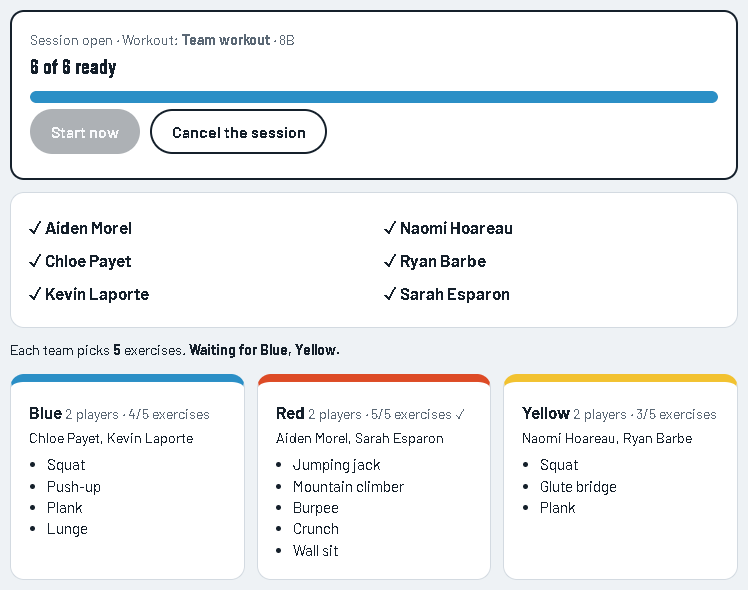
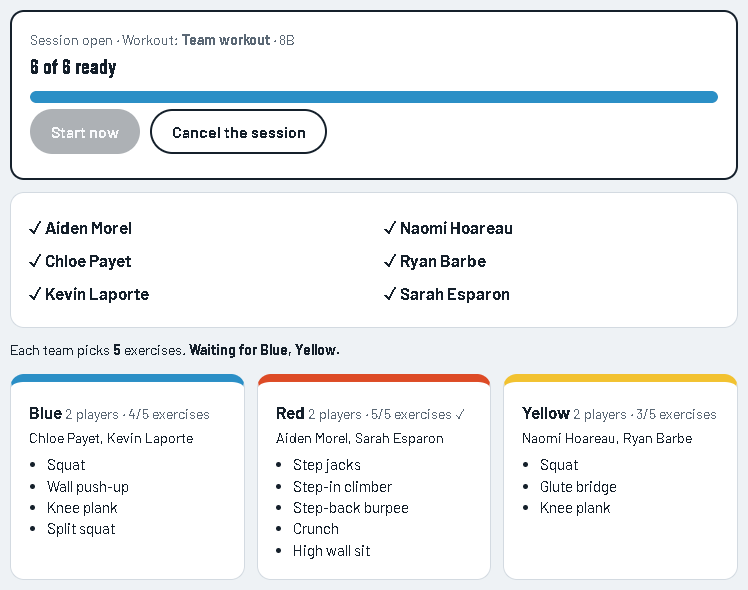
Team build: the team picks one level of each movement

diff --git a/index.html b/index.html
@@ -1934,7 +1934,7 @@ const TUTORIAL = [
   ['Write your last score', 'The last exercise has no rest, so you get <b>20 seconds</b> right after it to write its score. Do it straight away while you remember.', 'last'],
   ['Heart rate check', 'After the last exercise the screen turns red. Stop and put two fingers (not your thumb) on your wrist, below the thumb, or on the side of your neck. When the 30-second clock starts, count every beat until it reaches 0, and remember your number. In a live challenge, wait with your fingers on your pulse: your teacher starts the count for everyone.', 'pulse'],
   ['Pick your team', 'If your teacher turns on teams, tapping a team (Blue, Red, Yellow, Green…) makes you ready. First come, first served, but teams stay balanced: a team that already has more players than another is closed. With 40 students and 4 teams you get 10 per team. Your team colour shows during the workout and on the leaderboard.', 'teams'],
-  ['Pick your team’s exercises', 'In a "build your workout" session, once you are in a team the app opens the exercise menu for your team: you and your teammates choose the exercises together (the number is set by your teacher). Tap a movement to add it, tap it again to remove it. If you leave, the notice on your home page says <b>Set the exercises</b>. You each do them at your own level. When the team is full, wait: the teacher starts everyone together.', 'teampick'],
+  ['Pick your team’s exercises', 'In a "build your workout" session, once you are in a team the app opens the exercise menu for your team: you and your teammates choose the exercises together (the number is set by your teacher). Tap one level of a movement to add it (tap it again to remove it, tap another level to swap). If you leave, the notice on your home page says <b>Set the exercises</b>. You each do them at your own level. When the team is full, wait: the teacher starts everyone together.', 'teampick'],
   ['Count your pulse together', 'In a live challenge, the red screen says <b>Wait</b>: put your fingers on your pulse and keep still. When your teacher presses the button, the 30-second count starts on every screen 3 seconds later. Count every beat until it reaches 0, then the stretches begin.', 'pulse-live'],
   ['Write your beats', 'As soon as the 30 seconds end, you have <b>20 seconds</b> to type the beats you counted. The app doubles it into your beats per minute (bpm). Then the stretches begin.', 'pulse-log'],
   ['Save your workout', 'Check your scores, choose how hard it felt from 1 to 10, and save. Every rep is 1 point and every second held is half a point, and harder levels are worth more.', 'summary'],
@@ -3171,7 +3171,7 @@ function liveTeacherRender(st){
     const withPlayers = Array.from({length:st.teams}, (_, i)=>i+1).filter(t=>names(t).length > 0), bad = withPlayers.filter(t=>picks(t).length !== st.pick_n);
     $('#lv').insertAdjacentHTML('beforeend', `${build ? `<p class="small" style="max-width:none;margin:12px 0 0">Each team picks <b>${st.pick_n}</b> exercises. ${bad.length ? `<b>Waiting for ${bad.map(t=>TEAMS[t-1][0]).join(', ')}.</b>` : withPlayers.length ? '<b>All teams are complete: you can start.</b>' : 'Waiting for students to join a team.'}</p>` : ''}
       <div class="teamgrid">${Array.from({length:st.teams}, (_, i)=>i+1).map(t=>`<div class="panel" style="border-top:8px solid ${TEAMS[t-1][1]}"><b>${TEAMS[t-1][0]}</b> <span class="muted small">${names(t).length} player${names(t).length===1 ? '' : 's'}${build && names(t).length ? ` · ${picks(t).length}/${st.pick_n} exercises${picks(t).length === st.pick_n ? ' ✓' : ''}` : ''}</span><div class="small" style="max-width:none;margin-top:4px">${names(t).map(esc).join(', ') || '<span class="muted">no one yet</span>'}</div>
-        ${build && names(t).length ? `<ul class="splitlist">${picks(t).map(fid=>`<li>${esc(FAM[fid]?.name || fid)}</li>`).join('') || '<li class="muted">no exercise yet</li>'}</ul>` : ''}</div>`).join('')}</div>`);
+        ${build && names(t).length ? `<ul class="splitlist">${picks(t).map(fid=>`<li>${esc(pickInfo(fid).name)}</li>`).join('') || '<li class="muted">no exercise yet</li>'}</ul>` : ''}</div>`).join('')}</div>`);
     if(build) $('#lvGo').disabled = !withPlayers.length || bad.length > 0;
   }
   $('#lvGo').onclick = async () => {
@@ -3207,7 +3207,7 @@ function liveSplitRun(st){
     if($('#pulseAll')) $('#pulseAll').onclick = async () => { $('#pulseAll').disabled = true; try{ cur = await api.pulse(id); }catch(x){ toast(x.message); } };
     if($('#splitRes')) $('#splitRes').onclick = () => showLiveBoard(id, back);
     if(ph && ph.type === 'work' && !done) done = false;
-    $('#split').innerHTML = Array.from({length:cur.teams}, (_, i)=>i+1).filter(t=>names(t) > 0).map(t=>{ const fids = picks(t), nm = fids.map(fid=>FAM[fid]?.name || fid);
+    $('#split').innerHTML = Array.from({length:cur.teams}, (_, i)=>i+1).filter(t=>names(t) > 0).map(t=>{ const fids = picks(t), nm = fids.map(fid=>pickInfo(fid).name);
       return `<div class="panel" style="border-top:8px solid ${TEAMS[t-1][1]}"><b>${TEAMS[t-1][0]}</b> <span class="muted small">${names(t)} players</span>
         <div class="splitphase">${ph ? esc(label(ph, nm)) : 'Finished'}</div>
         <ol class="splitlist">${nm.map((n, j)=>`<li class="${ph && ph.type === 'work' && ph.ex === j ? 'now' : ''}">${esc(n)}</li>`).join('')}</ol></div>`; }).join('');
@@ -3297,6 +3297,9 @@ function liveOverlay(st){
   if($('#lvNo')) $('#lvNo').onclick = () => { tabStore.set('bwb-live-declined', st.id); ov.remove(); };
 }
 // The team's shared exercise menu: the same screen as the builder; every tap adds or removes a movement for the whole team.
+// A team pick is stored as '<movement>_l<level>' (e.g. squat_l2): one movement at one level.
+const pickKey = (fam, lvl) => fam + '_l' + lvl;
+const pickInfo = k => { const m = /^(.*)_l([1-4])$/.exec(k) || [k, k, 1]; return {fid:m[1], lvl:+m[2], name:FAM[m[1]]?.levels[m[2]-1]?.n || FAM[m[1]]?.name || k}; };
 let TP = null;
 function showTeamPick(st){
   const mine = myTeamOf(st); if(!mine) return;
@@ -3304,12 +3307,12 @@ function showTeamPick(st){
   const fidsOf = s2 => (s2.team_ex || []).find(t=>t.team===mine)?.fids || [];
   setView(`<p><button class="btn ghost small" id="tpDone">Later</button></p>
     <h1>${teamChip(mine)} team: pick your exercises</h1>
-    <p class="muted">Choose <b>${st.pick_n}</b> exercises together with your team. Everyone in the team sees the same list and can add or remove a movement: tap it again to remove it. You each do them at your own level, and your teacher starts everyone together.</p>
+    <p class="muted">Choose <b>${st.pick_n}</b> exercises together with your team. Everyone in the team sees the same list and can add or remove a movement: tap it again to remove it. Tap one level of a movement: tapping another level of the same movement replaces it. Your teacher starts everyone together.</p>
     ${REGIONS.map(r=>`<h2>${r}</h2>` + FAMILIES.filter(f=>f.region===r).map(famRow).join('')).join('')}
     <div class="dock" id="dock"></div>`);
   const draw = s2 => {
     TP.fids = fidsOf(s2); const n = TP.fids.length;
-    $$('.chip').forEach(b=>{ b.setAttribute('aria-pressed', TP.fids.includes(b.dataset.fam)); const o = b.querySelector('.ord'); if(o) o.hidden = true; });
+    $$('.chip').forEach(b=>{ b.setAttribute('aria-pressed', TP.fids.includes(pickKey(b.dataset.fam, b.dataset.lvl))); const o = b.querySelector('.ord'); if(o) o.hidden = true; });
     $('#dock').innerHTML = `<div class="dock-in"><div><b>${n} of ${TP.n} chosen</b> <span class="muted">${n === TP.n ? 'Your team is ready. Wait for your teacher.' : 'pick ' + (TP.n - n) + ' more'}</span></div></div>`;
   };
   const leave = () => { clearInterval(TP?.timer); TP = null; };
@@ -3324,7 +3327,8 @@ function showTeamPick(st){
   view.onclick = async e => {
     const how = e.target.closest('[data-how]'); if(how) return showHow(how.dataset.how);
     const chip = e.target.closest('.chip'); if(!chip) return;
-    try{ const r = await Store.liveTeamToggle(S.token, TP.id, chip.dataset.fam); if(r?.error){ toast(r.error); if(r.team_ex) draw(r); return; } draw(r); }catch(err){ toast(err.message); }
+    const key = pickKey(chip.dataset.fam, chip.dataset.lvl), old = TP.fids.find(k=>k !== key && pickInfo(k).fid === chip.dataset.fam);   // one level per movement: a new level replaces the old one
+    try{ let r; if(old) r = await Store.liveTeamToggle(S.token, TP.id, old); r = await Store.liveTeamToggle(S.token, TP.id, key); if(r?.error){ toast(r.error); if(r.team_ex) draw(r); return; } draw(r); }catch(err){ toast(err.message); }
   };
   $('#tpDone').onclick = () => { tabStore.set('bwb-live-later', TP.id); leave(); showStudentHome(); };
   draw(st); TP.timer = setInterval(sync, 2000);
@@ -3335,7 +3339,7 @@ function liveJoin(st, leader){
   if(st.mode === 'team_build'){   // each team does the workout it picked
     const t = myTeamOf(st), fids = (st.team_ex || []).find(x=>x.team===t)?.fids || [];
     if(!t || !fids.length){ toast('Pick a team and its exercises first.'); return liveOverlay(st); }
-    p = {...p, title:TEAMS[t-1][0] + ' team', exercises:fids.map(fid=>({fid, lvl:1, free:true}))};
+    p = {...p, title:TEAMS[t-1][0] + ' team', exercises:fids.map(k=>{ const i = pickInfo(k); return {fid:i.fid, lvl:i.lvl, free:false}; })};
   }
   S.settings = {work:p.work_sec, rest:p.rest_sec, rounds:p.rounds};
   S.sel = p.exercises.filter(x=>FAM[x.fid]).map(x=>{ const f = S.A?.fams[x.fid]; return {fam:x.fid, lvl:x.free && f ? f.level : x.lvl}; });
